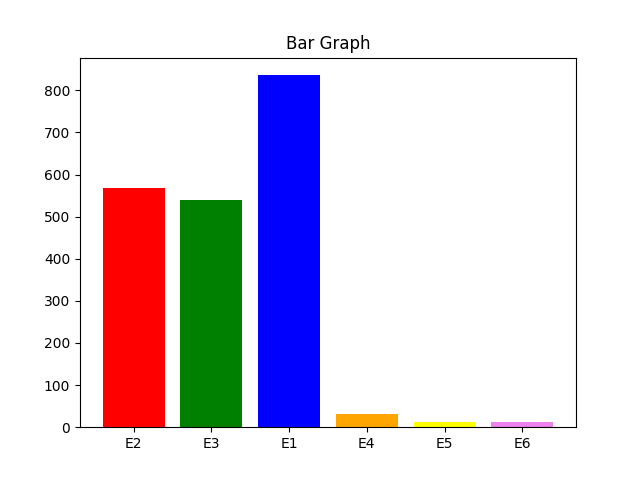
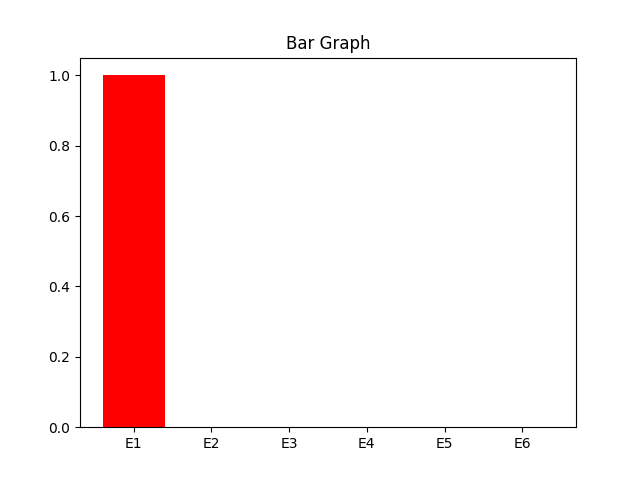
done

diff --git a/app.py b/app.py
@@ -1,70 +1,75 @@
-from flask import Flask, redirect, render_template, request, send_file
+from flask import Flask, redirect, render_template, request
 import os
 import matplotlib
-matplotlib.use('Qt5Agg') #using this to reduce loading speed
+matplotlib.use('Agg') #using this to reduce loading speed
 import matplotlib.pyplot as plt
 import time
-
+#To overwrite the plt.show() if the userr writes plt.show in text-editor
 def not_show():
     pass
 plt.show=not_show
+
 app = Flask(__name__)
 
+
+
+#upload page (index.html shows the upload page)
 @app.route('/')
 def main():
     return render_template("index.html")
 
 
+#to dispay the Display page(csv table of uploaded file)
 @app.route('/success', methods=['POST'])
 def success():
-        
-        s_csv=time.time()
+        s_csv=time.time() #just to check run time
         EventId='All'
         Level='All'
         if request.form.get("EventId"):
-            EventId=request.form.get("EventId")  
+            EventId=request.form.get("EventId")   #EventId input in filtering in display page
         if request.form.get("Level"):
-           Level=request.form.get("Level")   
-        #print(EventId,Level)
-        if 'file' in request.files:
+           Level=request.form.get("Level")    #Level input in filtering in displlay page
+        if 'file' in request.files:   
           f = request.files['file']
-          f.save('Apache_2k.log')
-        command=f"bash script.sh Apache_2k.log {Level} {EventId}"
-        os.system(command)  
-        with open("tmp2.txt",'r') as file:
+          f.save('Apache_2k.log')             #saving the uploaded file with name Apache_2k.log
+        command=f"bash parsing_filtering.sh Apache_2k.log {Level} {EventId}"
+        os.system(command)                    #runnig the bash script which parser as well as filters the csv table
+        with open("tmp2.txt",'r') as file:    #To check  if the uploaded file is a valid Apache log file
             for line in file:
                 print(line)
                 if int(line.strip())==1:
                   st="only Apache log  files can be analyzed"
-                  return render_template("index.html",st=st)
-        e_csv=time.time()
-        print(e_csv-s_csv,"for the execution of success...where page is csv file making") 
-        return render_template("acknowledgment.html",selected_event=EventId,selected_level=Level)
+                  return render_template("index.html",st=st)  # to return error that wromg file is uploaded
+        e_csv=time.time()                                      #to check code run time
+        print(e_csv-s_csv,"for the execution of success...where page is csv file making")   #for debugging purpose
+        return render_template("acknowledgment.html",selected_event=EventId,selected_level=Level)    #returning the Displlay page 
 
   
-
+####This is  a function plots the grpahs based on line numbers in the file(line no's are generrated in a different way from the time inputs)
+##this function will be used in later functions
 def generate_plot(X, Y):
     X=int(X)
     Y=int(Y)
     print("in generate func X and Y are:",X,Y)
-    with open("notice_error", 'r') as file:
+    with open("notice_error", 'r') as file:    #data for pie plot
         x = 0
         y =0
         z = 0
         for line in file:
-            if X <= z <= Y:
+            if X < z and z <= Y:
+                print(line)
                 if line.strip() == "[notice]":
                     x += 1
                 elif line.strip() == "[error]":
                     y += 1
             z += 1
-    with open("time",'r') as file:
+    with open("time",'r') as file:  #data for line plot
      p=0
      q=0
      r=0
      dic={}
      for line in file:
-         if X<=r<=Y:
+         if X<r and r<=Y:
              if line.strip() not in dic:
                  dic[line.strip()]=1
              else:
@@ -73,82 +78,92 @@ def generate_plot(X, Y):
      arr_x=list(dic.keys()) 
      arr_y=list(dic.values())   
     
-
-    with open("events",'r') as file:
+    a,b,c=0,0,0
+    with open("events",'r') as file:  #data for bar graph
          arr=[]
          for line in file:
-              if line.strip()!= "EventId":
-               arr.append(line.strip())
-         
-    #plt.figure(figsize=(14, 6.5))
+              if X<c and c<=Y :
+                arr.append(line.strip())
+              c=c+1    
+         counts = {}
+         print(arr)
+         print(set(arr),"this is the set of arr")
+         for item in arr:
+              if item in counts:
+                  counts[item] += 1
+              else:
+                  counts[item] = 1
+
+      ##data collection is done
+      # now plotting        
     if x+y >0:       
          labels = ['[notice]', '[error] ']
          sizes = [x, y]
          colors = ['#ff9999', '#66b3ff']
-        # plt.subplot(2,2,1)
-         plt.pie(sizes, labels=labels,autopct='%1.1f%%', colors=colors)
+         plt.pie(sizes, labels=labels,autopct='%1.1f%%', colors=colors)  #pie plotting
          plt.title("Pie chart")
          plt.savefig("static/pie_plot.png")
          plt.close()
     else:
-        #plt.subplot(2, 2, 1)
         plt.text(0.5, 0.5, 'No data in pie range', ha='center', va='center', fontsize=12)
         plt.axis('off')
         plt.title("Pie chart")     
         plt.close()
 
-    #plt.subplot(2,2,2)
-    plt.plot(arr_x,arr_y)
-    # plt.gca().set_xticklabels([])
+
+    #line plot plotting
+    plt.plot(arr_x,arr_y)     
     plt.title("Line Plot")
     plt.savefig("static/plot_plot.png")
-    
     plt.close()
-    #plt.gca().set_xticklabels([]) #to hide the labels on x axis in line plot
-    # plt.subplot(2,2,3)
-    counts = {}
-    for item in arr:
-      if item in counts:
-          counts[item] += 1
-      else:
-           counts[item] = 1
-    labels = list(counts.keys())
-    values = list(counts.values())
+
+
+    labels = ['E1','E2','E3','E4','E5','E6']
+    print(labels,"labels of bar graph")
+    for k in labels:
+        if k not in counts.keys():
+            counts[k]=0
+    values=counts.values()        
+    print(values,"values of bar graph")
     colors = ['red', 'green', 'blue', 'orange','yellow','violet']  #
-    plt.bar(labels, values,color=colors)
+   
+    #bar graph plotting
+    plt.bar(labels, values,color=colors)   
     plt.title("Bar Graph")
     plt.savefig("static/hist_plot.png")
     plt.close()
 
 
 
+#Page where graphs are visible
 @app.route('/plot.html',methods=["POST"])
 def plot():
     s1_plot=time.time()
-    os.system('bash script2.sh static/Apache_2k.csv')
-    with open("tmp1.txt",'r') as file:
+    os.system('bash default_filter.sh static/Apache_2k.csv')   # this is used to find the default line numbers as i am using a function
+    with open("tmp1.txt",'r') as file:                         #which takes line numbers as arguments (so usinng ths script)
         for line in file:
             print("time2:",line.strip())
             time2=int(line.strip())
     time1 = 1
-    #time2 = "[Mon Dec 05 19:15:57 2005]"
-    generate_plot(time1, time2)
+    generate_plot(time1, time2)                                 # the default plot of the csv table(no filtering has been done)
     e1_plot=time.time()
     print(e1_plot-s1_plot,"for sefault plotting the time is this")
     return render_template("plot.html")     
 
+
+##when we want to filter the graphs based on time
 
 @app.route("/submit", methods=["POST"])
 def submit():
     s2_plot=time.time()
     if request.method == "POST":
         formatted1 = request.form['sdt'].strip()
-        formatted2 = request.form['edt'].strip()
-        with open("submitted_times.txt", "w") as f:
+        formatted2 = request.form['edt'].strip() 
+        with open("submitted_times.txt", "w") as f:   ##submittedd_times is a temporary file containg the submited times when doing filtering
             f.write(f"{formatted1}\n")
             f.write(f"{formatted2}\n")
         print(formatted1,formatted2,"are the formatted times")
-        os.system(f'bash script1.sh time submitted_times.txt')
+        os.system(f'bash filter_time.sh time submitted_times.txt')   #
         with open("tmp.txt",'r') as file:
             for line in file:
                 line=line.split(',')
@@ -195,7 +210,6 @@ plt.show()
              print(e_graph-s_graph,"time to graph is this")  
              return render_template("plotter.html",plot_url=plot_url,code=code)
 
-        
 app.run(debug=True)
 
 
